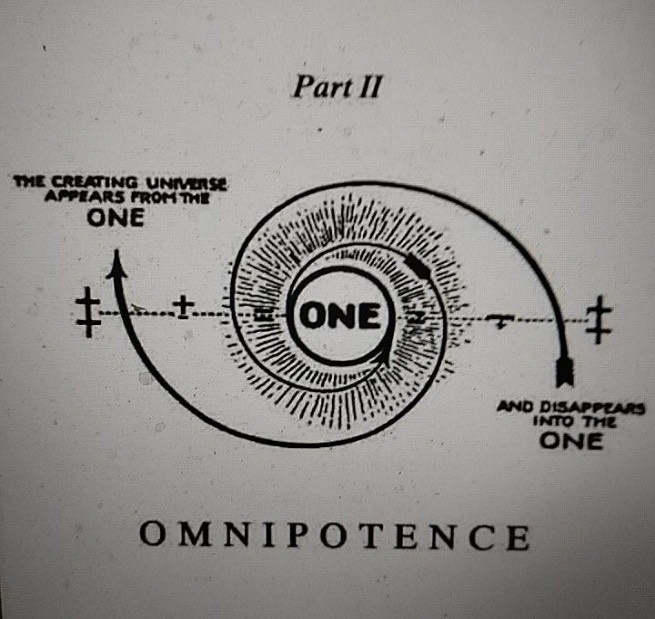
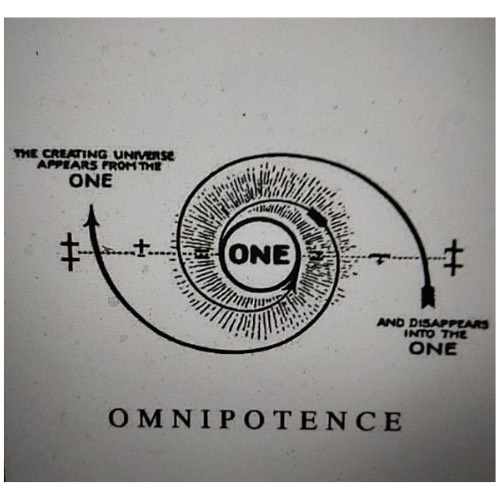
Update landing text, centre headings, swap omnipotence image, remove Euler/Yin-Yang/Kabbalah/symbol-grid section from Explanations, remove h1 from Introduction

Changed region(s): [[0.0, 0.0, 1.0, 1.0], [0.21, 0.81, 0.81, 0.9], [0.45, 0.12, 0.6, 0.18]]

diff --git a/explanations.html b/explanations.html
@@ -68,52 +68,6 @@
       </li>
     </ul>
 
-    <hr>
-
-    <div class="article-body">
-
-      <div class="figure">
-        <img src="images/euler-identity-full.png" alt="Euler's Identity — e to the power of i pi plus 1 equals 0">
-      </div>
-
-      <p>This formula, known as Euler's Identity, will produce Yin and Yang Symbols when displayed on the x, y and z axis of a graph mapping the outflow of Pure Waveform emations from the Monad.</p>
-
-      <div class="figure">
-        <img src="images/yin-yang.png" alt="Yin and Yang Symbol">
-      </div>
-
-      <hr>
-
-      <p>This image below is of the 10 sephirot of The Kaballah</p>
-
-      <div class="figure">
-        <img src="images/kabbalah-sephirot.png" alt="The 10 Sephirot of the Kabbalah">
-      </div>
-
-      <hr>
-
-      <div class="symbol-grid">
-        <div>
-          <p class="symbol-label">&nbsp;<br>Solomon's Seal</p>
-          <img src="images/solomon.png" alt="Solomon's Seal">
-        </div>
-        <div>
-          <p class="symbol-label">The hexagonal<br>DNA Molecule</p>
-          <img src="images/hexagon.png" alt="The hexagonal DNA Molecule">
-        </div>
-        <div>
-          <p class="symbol-label">&nbsp;<br>The cube</p>
-          <img src="images/cube.png" alt="The cube">
-        </div>
-        <div>
-          <p class="symbol-label">&nbsp;<br>The Merkabah</p>
-          <img src="images/merkabah.png" alt="The Merkabah">
-        </div>
-      </div>
-
-      <p>The images above. 1) is of Solomon's Seal and 2) the other three represent the connection between Light emanating from the Monad, through the ZPF into the Physical Realm  The two way flow of information enables Life to manifest.</p>
-
-    </div>
 
   </main>
 

diff --git a/index.html b/index.html
@@ -26,10 +26,9 @@
     <div class="hero">
 
       <div class="hero-text">
-        <p>The more open the mind, the easier it learns and develops Understanding accordingly.</p>
+        <p>The more open the mind, the easier it learns, and understanding develops accordingly.</p>
         <p>The more closed the mind, the more difficult it is to recognise Truth.</p>
         <p>Understanding is limited or increased by Vocabulary and the desire to Learn.</p>
-        <p>There are reasons and explanations for everything, especially when it comes to 'Learning'.</p>
       </div>
 
       <img

diff --git a/introduction.html b/introduction.html
@@ -23,8 +23,6 @@
   </nav>
 
   <main>
-    <h1>Mindism</h1>
-
     <blockquote>
       "An exact science of the One visible and invisible universe of Mind and the registration of all idea of thinking Mind in light, which is matter and also energy"
       <cite>&mdash; Walter Russell</cite>

diff --git a/style.css b/style.css
@@ -145,6 +145,7 @@ h1 {
   line-height: 1.3;
   border-bottom: 2px solid var(--gold);
   padding-bottom: 0.5rem;
+  text-align: center;
 }
 
 h2 {
@@ -153,6 +154,7 @@ h2 {
   color: var(--accent2);
   margin: 2.5rem 0 1rem;
   line-height: 1.3;
+  text-align: center;
 }
 
 h3 {
